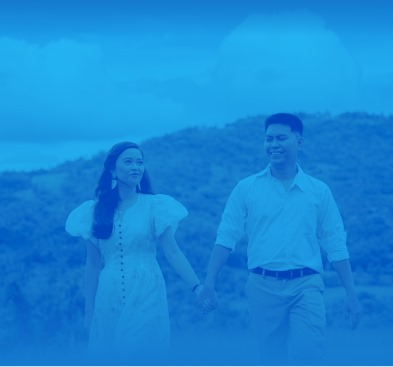
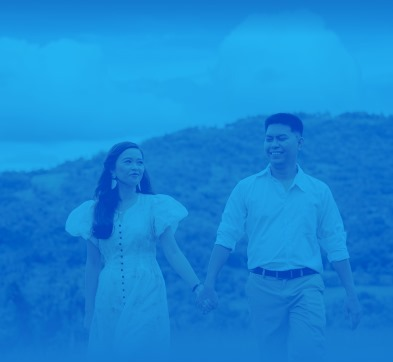
Fixed image

diff --git a/src/app/page.jsx b/src/app/page.jsx
@@ -109,14 +109,18 @@ export default function Home() {
           alt="Profile Picture"
         />
       </div>
-      <div className="relative py-4 bg-cover bg-center text-center bg-no-repeat bg-[#147ACE] min-h-[500px]">
+      <div className="relative py-4 bg-cover bg-center text-center bg-no-repeat bg-[#147ACE]">
         {/* Background Image with Blend Mode */}
         <div
           className="bg-top bg-cover bg-no-repeat absolute left-0 right-0 pt-32"
           style={{
             backgroundImage: `url(/images/marsh-mallow.jpeg)`,
             backgroundBlendMode: "soft-light",
-            minHeight: "350px", // Ensure full height
+            width: "100%",
+            height: "390px",
+
+            // background:
+            //   "linear-gradient(180deg, #147ACE 0%, rgba(20, 122, 206, 0.00) 10%, rgba(20, 122, 206, 0.00) 75%, #147ACE 100%), url(/images/marsh-mallow.jpeg) #147ACE 50% / cover no-repeat",
           }}
         ></div>
 
@@ -267,7 +271,7 @@ export default function Home() {
           style={{
             backgroundImage: `url(/images/with-lamp.jpeg)`,
             backgroundBlendMode: "soft-light",
-            minHeight: "350px", // Ensure full height
+            minHeight: "390px", // Ensure full height
           }}
         ></div>
 
@@ -453,7 +457,7 @@ export default function Home() {
           style={{
             backgroundImage: `url(/images/bottom-banner.jpeg)`,
             backgroundBlendMode: "soft-light",
-            minHeight: "350px", // Ensure full height
+            minHeight: "390px", // Ensure full height
           }}
         ></div>
 
